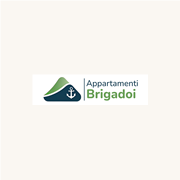
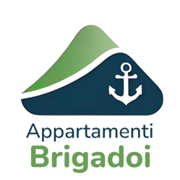
Icona Brigadoi reale, admin.html per home screen iOS

Changed region(s): [[0.1111, 0.1389, 0.9167, 0.6667], [0.1389, 0.6667, 0.8611, 0.9722]]

diff --git a/admin.html b/admin.html
@@ -1,0 +1,23 @@
+<!DOCTYPE html>
+<html lang="it">
+<head>
+<meta charset="UTF-8">
+<meta name="viewport" content="width=device-width, initial-scale=1.0">
+<title>Calendario Admin</title>
+<link rel="apple-touch-icon" href="apple-touch-icon.png">
+<link rel="manifest" href="admin-manifest.json">
+<meta name="mobile-web-app-capable" content="yes">
+<meta name="apple-mobile-web-app-capable" content="yes">
+<meta name="apple-mobile-web-app-title" content="Calendario Admin">
+<meta name="theme-color" content="#2D7A3A">
+<style>
+  body { font-family: sans-serif; display:flex; align-items:center; justify-content:center; height:100vh; margin:0; background:#FAF7F2; }
+  p { color:#555; font-size:1rem; }
+</style>
+<script>
+  localStorage.setItem('adminMode', '1');
+  location.replace('index.html');
+</script>
+</head>
+<body><p>Accesso admin…</p></body>
+</html>
